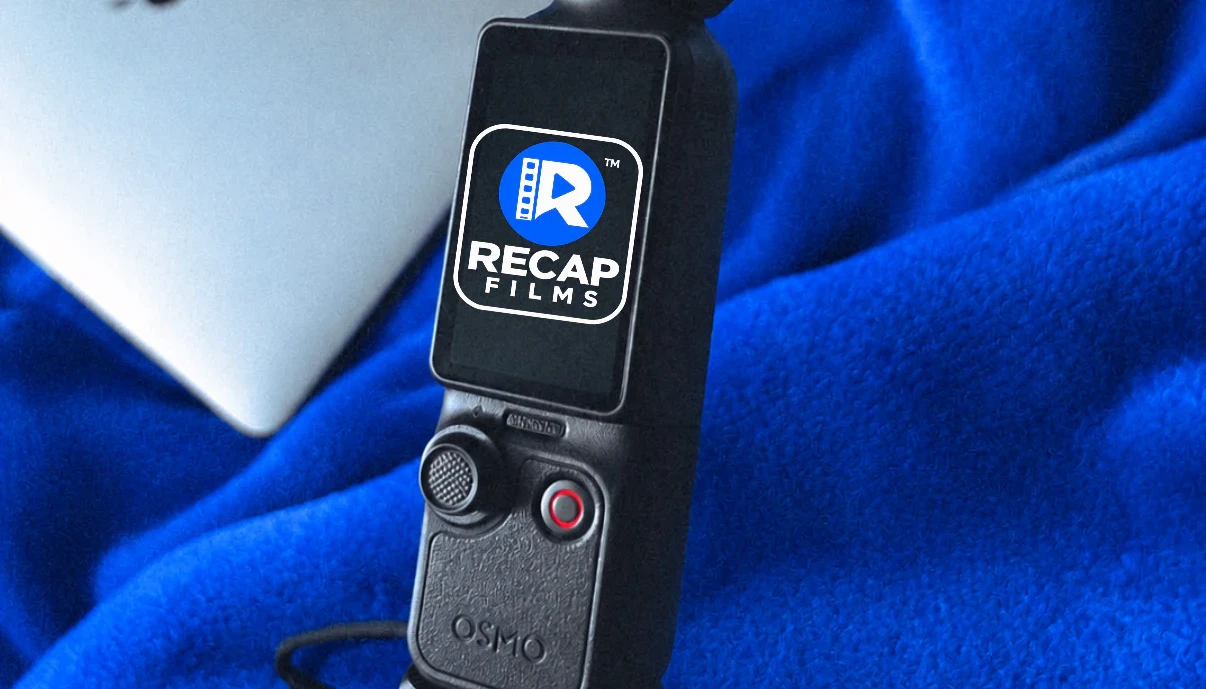
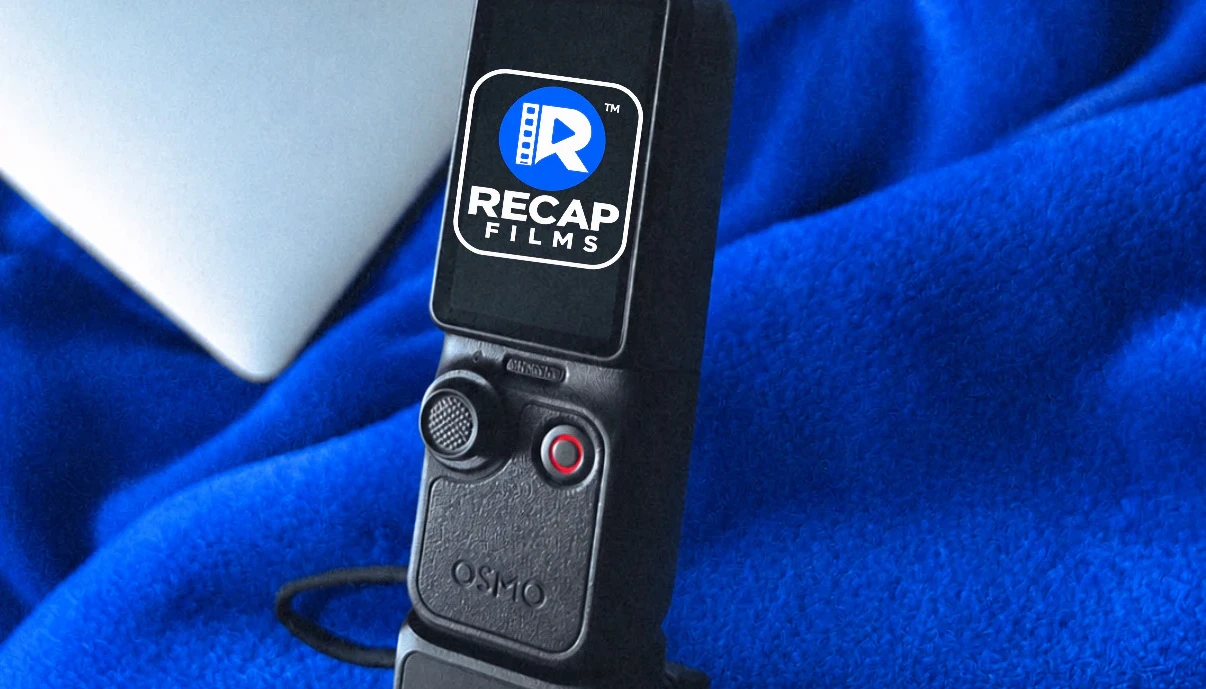
Recap Films y Rancho: fotos nuevas bien encuadradas en móvil

diff --git a/index.html b/index.html
@@ -20,7 +20,7 @@
 <link rel="preconnect" href="https://fonts.gstatic.com" crossorigin>
 <link href="https://fonts.googleapis.com/css2?family=Anton&family=Instrument+Serif:ital@0;1&family=Inter+Tight:wght@400;500;600;700&family=JetBrains+Mono:wght@400;500&display=swap" rel="stylesheet">
 <link rel="preload" as="image" href="img/poster-hero.webp">
-<link rel="stylesheet" href="styles.css?v=20261125d">
+<link rel="stylesheet" href="styles.css?v=20261125g">
 <script>document.documentElement.classList.add('js')</script>
 </head>
 <body>
@@ -293,11 +293,7 @@
 
     <article class="uni__card uni__card--rancho" data-cursor="Instagram">
       <a class="uni__link" href="https://instagram.com/ranchocaballitomendez" target="_blank" rel="noopener" aria-label="Rancho Caballito Méndez en Instagram"></a>
-      <div class="uni__media uni__media--stack">
-        <img src="img/rancho-1.webp" alt="Paseo a caballo en el rancho" loading="lazy">
-        <img src="img/rancho-4.webp" alt="Cumpleaños del caballo del rancho" loading="lazy">
-        <img src="img/rancho-6.webp" alt="Cabalgata nocturna" loading="lazy">
-      </div>
+      <div class="uni__media"><img src="img/rancho-hd.webp" alt="Charls Albert a caballo en el Rancho Caballito Méndez"></div>
       <div class="uni__body">
         <span class="uni__kind">Rancho familiar · 🇩🇴</span>
         <h3>Rancho Caballito Méndez</h3>
@@ -309,7 +305,7 @@
 
     <article class="uni__card uni__card--recap" data-cursor="Instagram">
       <a class="uni__link" href="https://instagram.com/recapfilmms" target="_blank" rel="noopener" aria-label="Recap Films en Instagram"></a>
-      <div class="uni__media"><picture><source media="(max-width: 900px)" srcset="img/recap-cam.webp"><img src="img/recap-cam-wide.webp" alt="Cámara con el logo de Recap Films" loading="lazy"></picture></div>
+      <div class="uni__media"><picture><source media="(max-width: 900px)" srcset="img/recap-cam-m.webp"><img src="img/recap-cam-wide.webp" alt="Cámara con el logo de Recap Films"></picture></div>
       <div class="uni__body">
         <span class="uni__kind">Productora · Nuevo proyecto</span>
         <h3>Recap Films</h3>
@@ -386,11 +382,11 @@
   </div>
 </div>
 
-<script src="config.js?v=20261125d"></script>
+<script src="config.js?v=20261125g"></script>
 <script src="vendor/gsap.min.js" defer></script>
 <script src="vendor/ScrollTrigger.min.js" defer></script>
 <script src="vendor/lenis.min.js" defer></script>
-<script src="booking.js?v=20261125d" defer></script>
-<script src="main.js?v=20261125d" defer></script>
+<script src="booking.js?v=20261125g" defer></script>
+<script src="main.js?v=20261125g" defer></script>
 </body>
 </html>

diff --git a/styles.css b/styles.css
@@ -327,6 +327,8 @@ html:not(.js) .loader { display: none; }
 .uni__media--stack { display: grid; grid-template-columns: 1.3fr 1fr; grid-template-rows: 1fr 1fr; gap: 4px; }
 .uni__media--stack img:first-child { grid-row: 1 / 3; }
 .uni__card--recap .uni__media img { object-position: 50% 0%; }
+.uni__card--rancho .uni__media img { object-position: 50% 58%; }
+.uni__card:not(.uni__card--sesion) h3 { font-size: clamp(34px, 3.2vw, 54px); }
 .uni__media picture { display: block; width: 100%; height: 100%; }
 .uni__card::after { content: ""; position: absolute; inset: 0; z-index: -1; background: linear-gradient(180deg, rgba(10,11,15,0) 25%, rgba(10,11,15,.92) 85%); }
 .uni__body { padding: clamp(22px, 2.6vw, 36px); display: flex; flex-direction: column; gap: 10px; align-items: flex-start; }
@@ -576,18 +578,19 @@ html.anim .fade-up { opacity: 0; transform: translateY(30px); }
   /* universo: grande + dos pequeños, como en escritorio */
   .universo { padding: 64px 0 48px; }
   .uni { grid-template-columns: 1.15fr 1fr; grid-template-rows: auto auto; gap: 8px; }
-  .uni__card { min-height: 210px; border-radius: 16px; }
-  .uni__card--sesion { grid-row: 1 / 3; min-height: 428px; }
+  .uni__card { min-height: 236px; border-radius: 16px; }
+  .uni__card--sesion { grid-row: 1 / 3; min-height: 480px; }
   .uni__body { padding: 12px; gap: 6px; }
   .uni__card p { display: none; }
-  .uni__card h3 { font-size: 22px; line-height: 1.02; }
+  .uni__card h3, .uni__card:not(.uni__card--sesion) h3 { font-size: 22px; line-height: 1.02; }
   .uni__card--sesion h3 { font-size: 34px; }
   .uni__kind { font-size: 9px; letter-spacing: .1em; }
   .uni__event, .uni__badge { font-size: 9px; padding: 5px 8px; letter-spacing: .06em; }
   .uni__card--rancho .uni__event, .uni__card:not(.uni__card--sesion) .uni__kind, .uni__card--recap .uni__badge { display: none; }
   .uni__handle { font-size: 11px; }
   .uni__handle svg { width: 13px; height: 13px; }
-  .uni__card--recap .uni__media img { object-position: 50% 30%; }
+  .uni__card--recap .uni__media img { object-position: 50% 15%; }
+  .uni__card--rancho .uni__media img { object-position: 60% 40%; }
   .uni__media--stack { display: block; }
   .uni__media--stack img:not(:first-child) { display: none; }
 

diff --git a/precio.html b/precio.html
@@ -10,7 +10,7 @@
 <link rel="preconnect" href="https://fonts.googleapis.com">
 <link rel="preconnect" href="https://fonts.gstatic.com" crossorigin>
 <link href="https://fonts.googleapis.com/css2?family=Anton&family=Instrument+Serif:ital@0;1&family=Inter+Tight:wght@400;500;600;700&family=JetBrains+Mono:wght@400;500&display=swap" rel="stylesheet">
-<link rel="stylesheet" href="styles.css?v=20261125d">
+<link rel="stylesheet" href="styles.css?v=20261125g">
 <style>
 .w{max-width:1100px;margin:0 auto;padding:0 var(--pad)}
 .top{display:flex;align-items:center;justify-content:space-between;padding:18px var(--pad);border-bottom:1px solid var(--line)}

diff --git a/propuesta.html b/propuesta.html
@@ -10,7 +10,7 @@
 <link rel="preconnect" href="https://fonts.googleapis.com">
 <link rel="preconnect" href="https://fonts.gstatic.com" crossorigin>
 <link href="https://fonts.googleapis.com/css2?family=Anton&family=Instrument+Serif:ital@0;1&family=Inter+Tight:wght@400;500;600;700&family=JetBrains+Mono:wght@400;500&display=swap" rel="stylesheet">
-<link rel="stylesheet" href="styles.css?v=20261125d">
+<link rel="stylesheet" href="styles.css?v=20261125g">
 <style>
 /* ---- propuesta ---- */
 .p-wrap { max-width: 1240px; margin: 0 auto; padding: 0 var(--pad); }

diff --git a/panel.html b/panel.html
@@ -121,7 +121,7 @@ body.locked .login{display:grid}
   </aside>
 </main>
 
-<script src="config.js?v=20261125d"></script>
+<script src="config.js?v=20261125g"></script>
 <script>
 (() => {
   const S = window.SITE, $ = s => document.querySelector(s);
